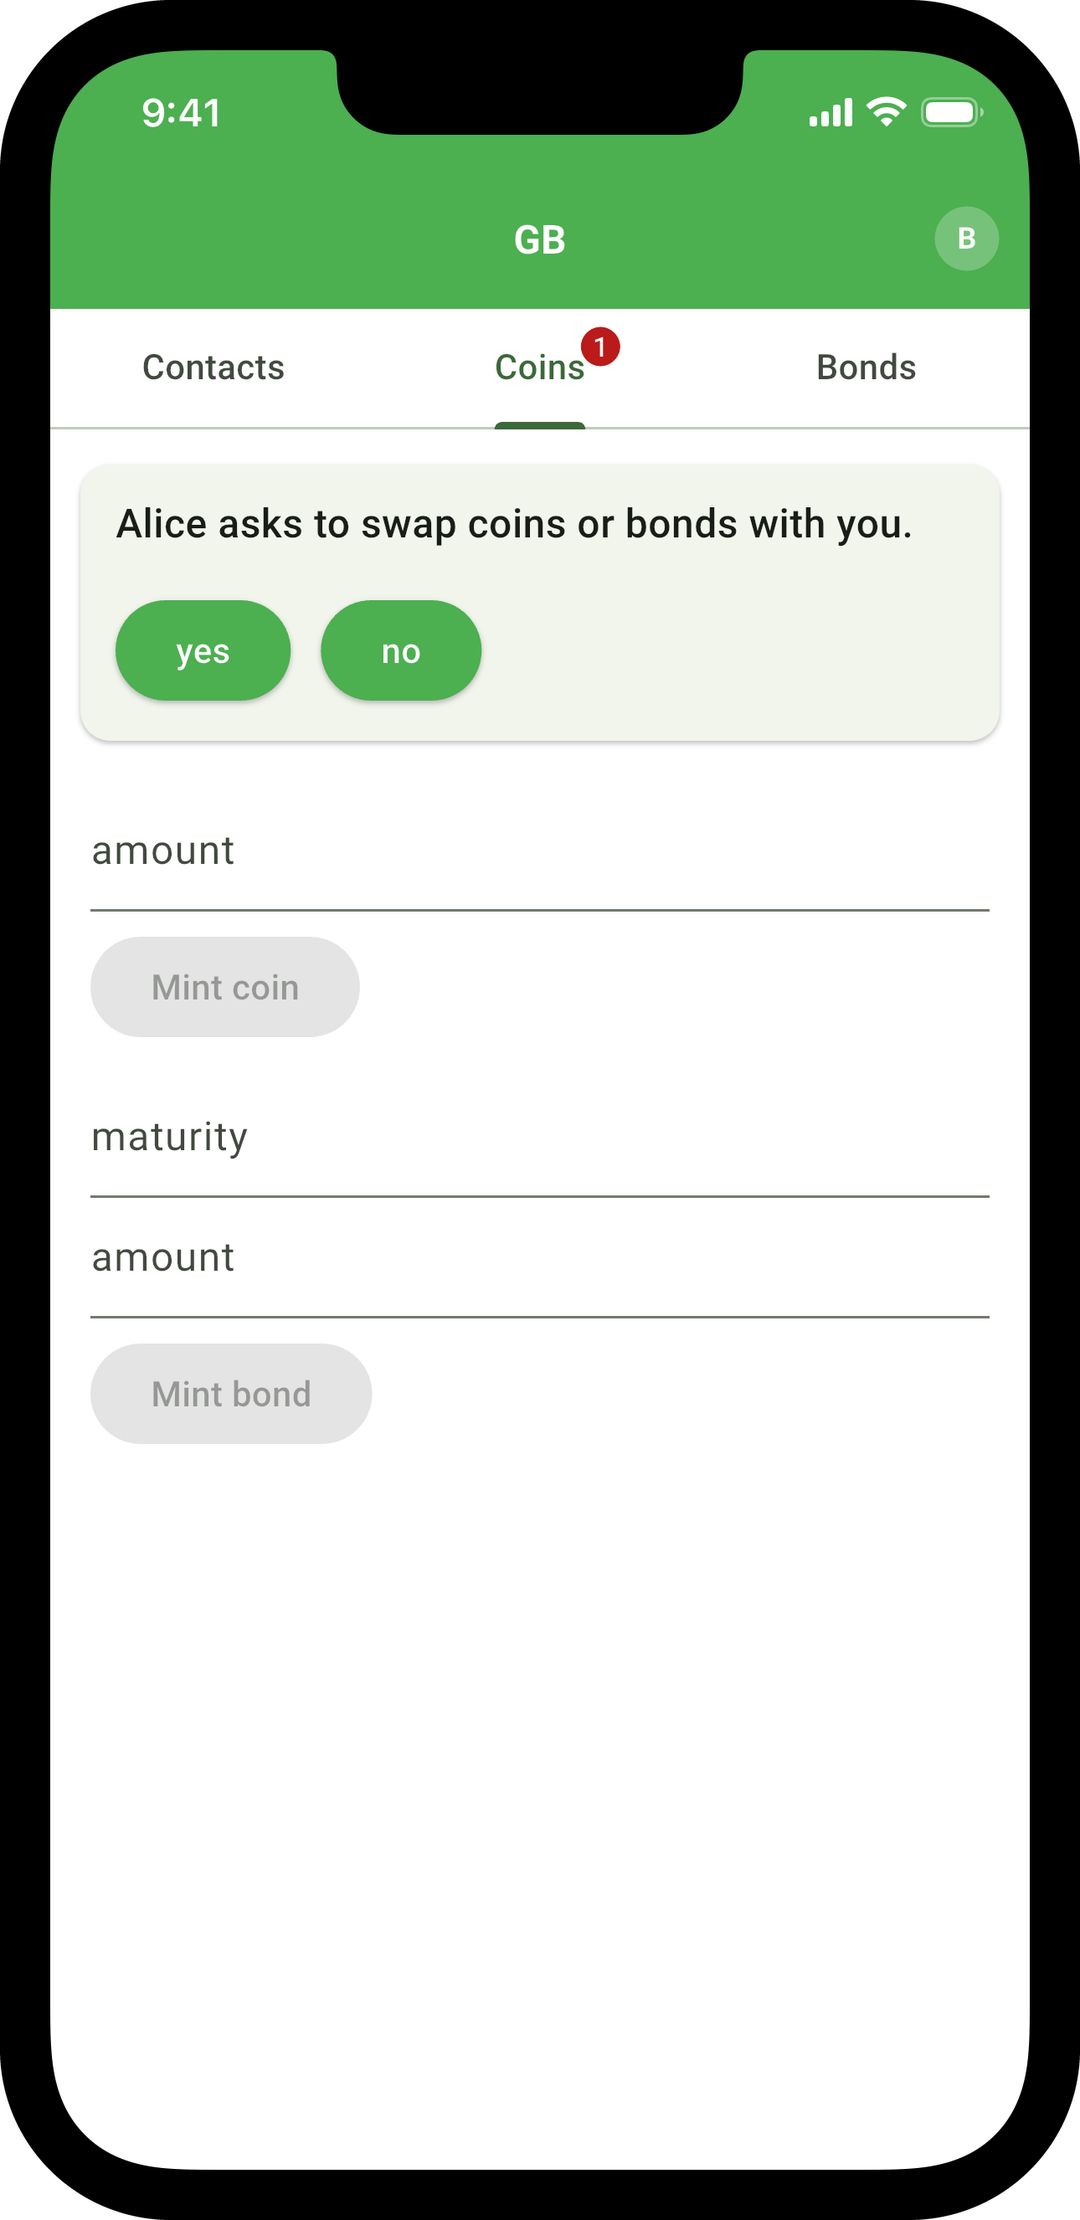
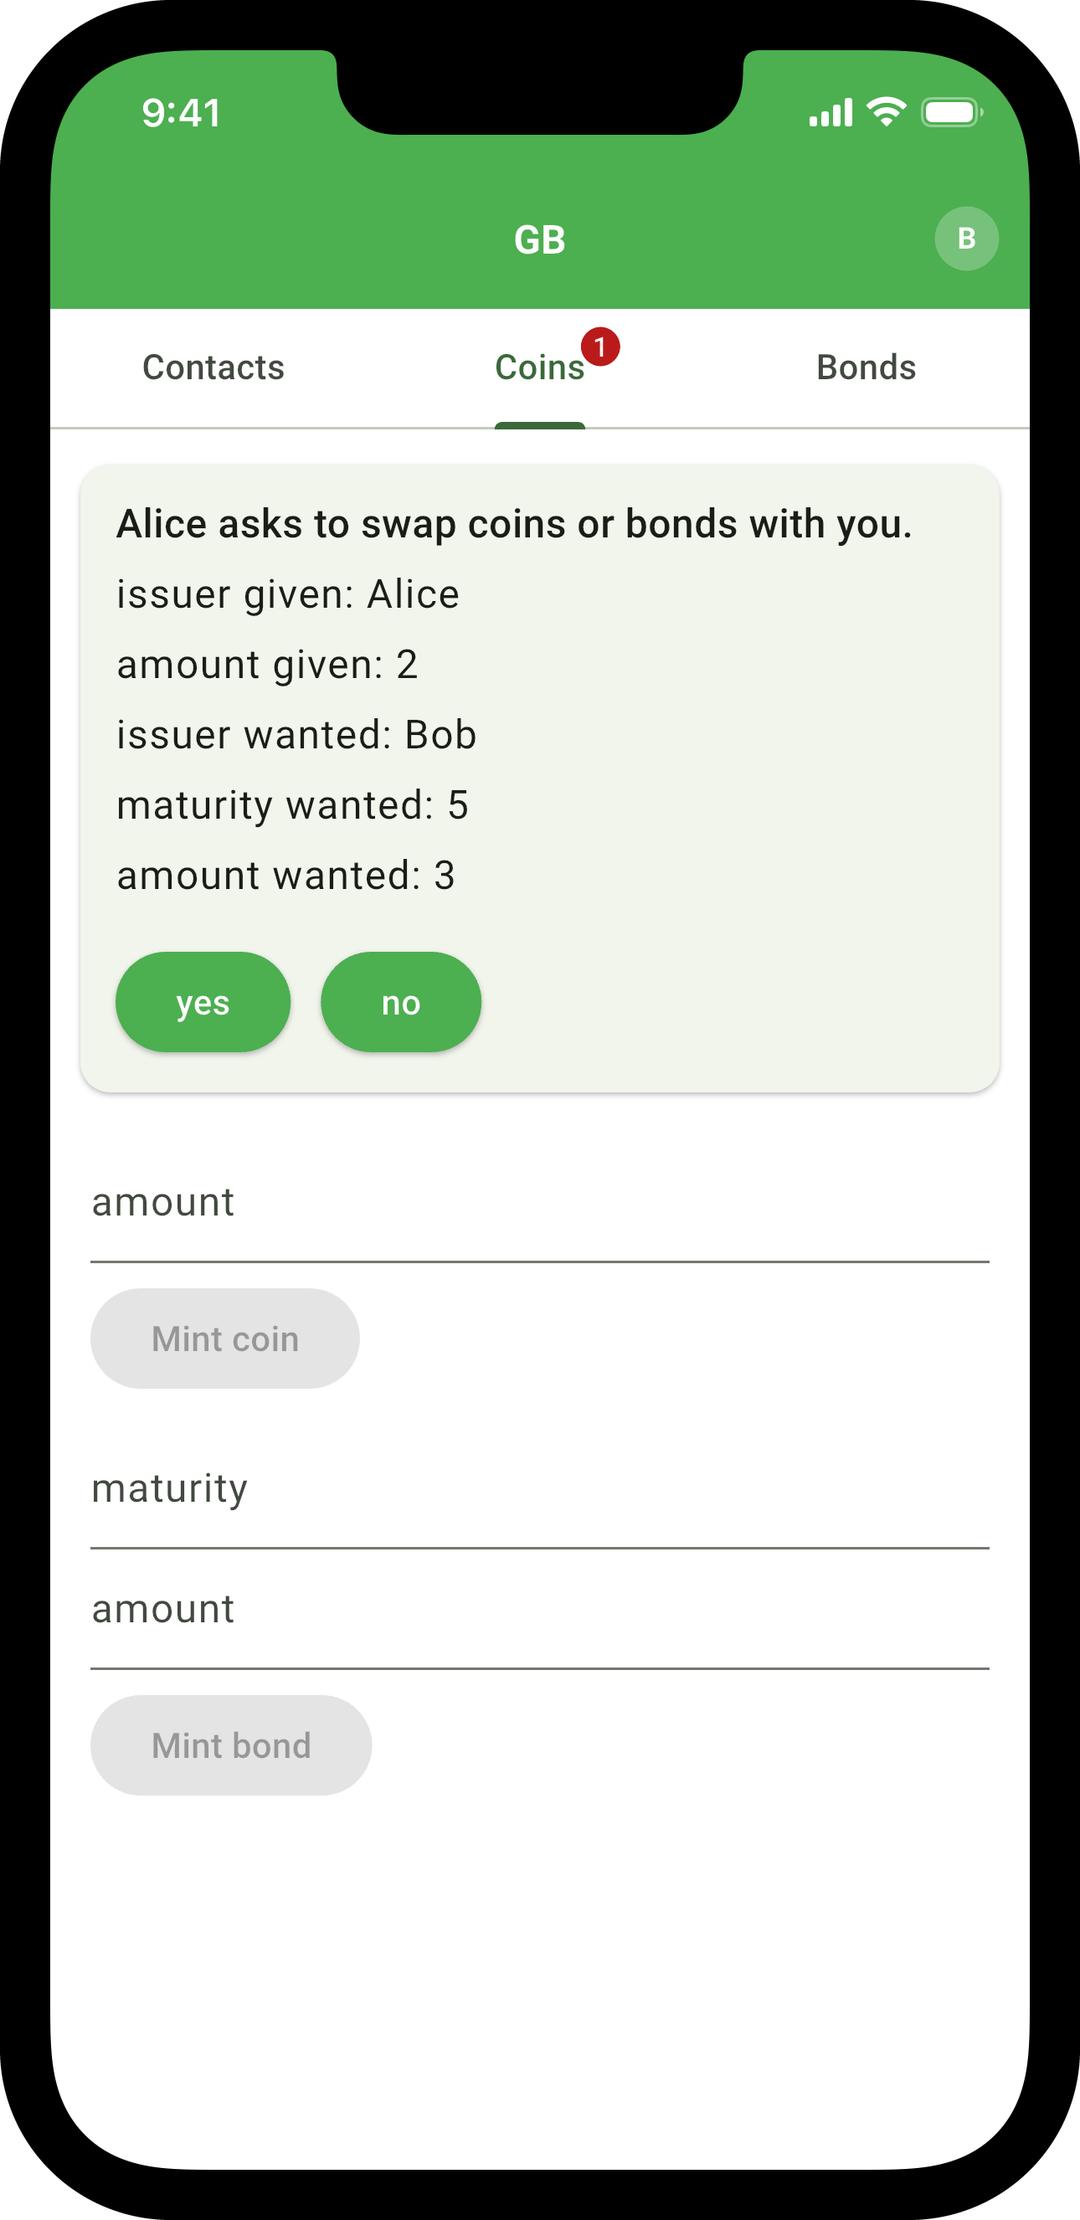
GB's four screens re-taken on the iOS Simulator, an iPhone 16e, at 71f54ce4: the questions now carry the act's fields in GB's words; README to match

Changed region(s): [[0.0611, 0.2486, 0.4583, 0.6838], [0.0611, 0.7149, 0.3667, 0.8081]]

diff --git a/programs/apps/gb/screens/README.md b/programs/apps/gb/screens/README.md
@@ -13,6 +13,6 @@ The same scenario runs headless in the suite, `flutter test test/apps_screens_te
 | File | What it shows |
 |---|---|
 | `gb-a-alice-mint-bond.png` | Alice mints bonds (GB:1): her Coins tab, the tab of GB, with Mint bond's fields, GB's "<maturity> <amount>", filled with 10 and 3, before she taps Mint bond, GB's "[Mint bond]"; above it Mint coin and her row of five Alice-coins. |
-| `gb-b-bob-asked-loan.png` | Alice asks Bob for a loan (GB:3): Bob's Coins tab with GB's question "Alice asks to swap coins or bonds with you." and the answers yes and no at its top. |
-| `gb-c-alice-redeem.png` | Alice redeems a matured Bob-bond (GB:5), Bob's date at day 5: her Bonds tab, a row for her Alice-bonds, 3, maturing at day 10, and one for her Bob-bonds, 3, maturing at day 5, with Redeem's fields, GB's "<maturity given> <issuer wanted> <maturity wanted>", filled with 5 and alice, the maturity wanted left empty for a coin, before she taps Redeem, GB's "[Redeem]". |
-| `gb-d-carol-asked-deposit.png` | Alice deposits two Alice-coins with Carol (GB:7): Carol's Coins tab with GB's question "Alice asks to deposit coins or bonds with you." and the answers yes and no at its top. |
+| `gb-b-bob-asked-loan.png` | Alice asks Bob for a loan (GB:3): Bob's Coins tab with GB's question "Alice asks to swap coins or bonds with you.", under it the fields of the swap, each named by GB's words, issuer given: Alice, amount given: 2, issuer wanted: Bob, maturity wanted: 5, amount wanted: 3, and the answers yes and no, at its top; below, Mint coin and Mint bond with their fields empty. |
+| `gb-c-alice-redeem.png` | Alice redeems a matured Bob-bond (GB:5), Bob's date at day 5: her Bonds tab, a row for her Bob-bonds, 3, maturing at day 5, with the buttons of the acts that name a person, Meet, Introduce, Swap, Pay, Redeem, Deposit, Release and Return, and Redeem's fields, GB's "<maturity given> <issuer wanted> <maturity wanted>", filled with 5 and alice, the maturity wanted left empty for a coin, before she taps Redeem, GB's "[Redeem]"; below it the row for her Alice-bonds, 3, maturing at day 10. |
+| `gb-d-carol-asked-deposit.png` | Alice deposits two Alice-coins with Carol (GB:7): Carol's Coins tab with GB's question "Alice asks to deposit coins or bonds with you.", under it issuer: Alice and amount: 2, and the answers yes and no, at its top; below, Mint coin and Mint bond with their fields empty. |
